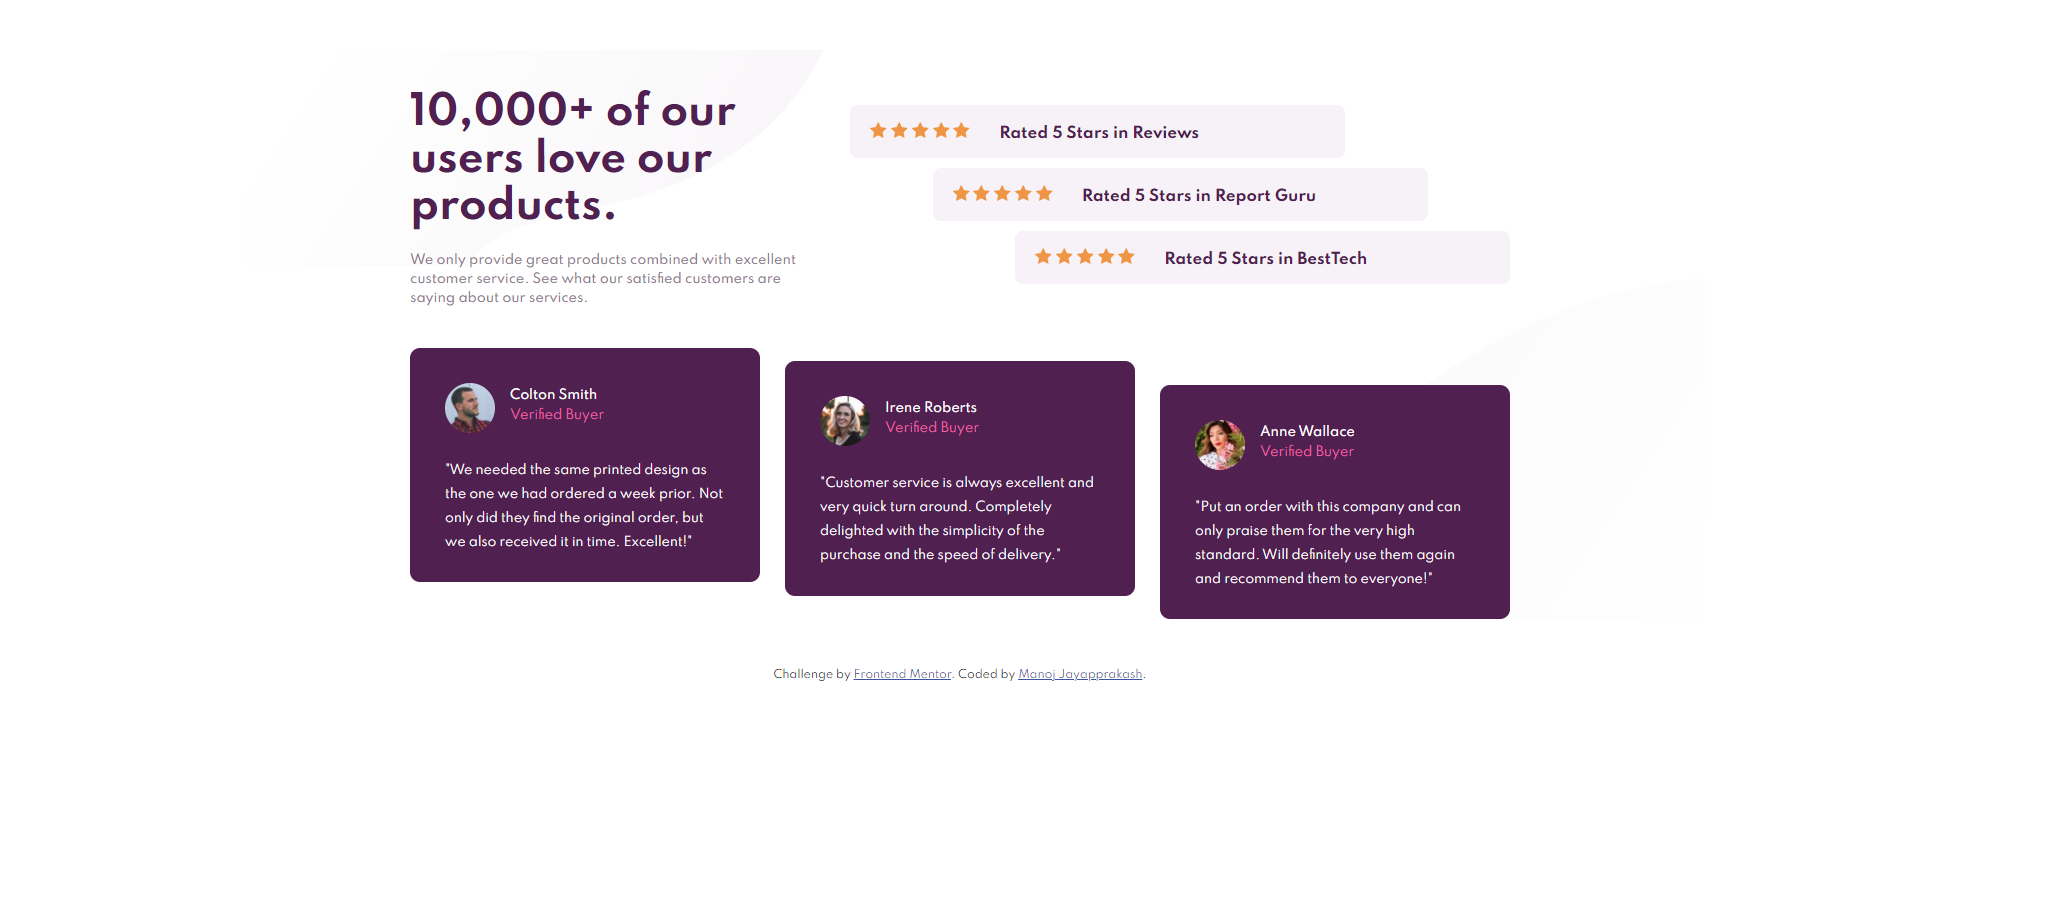
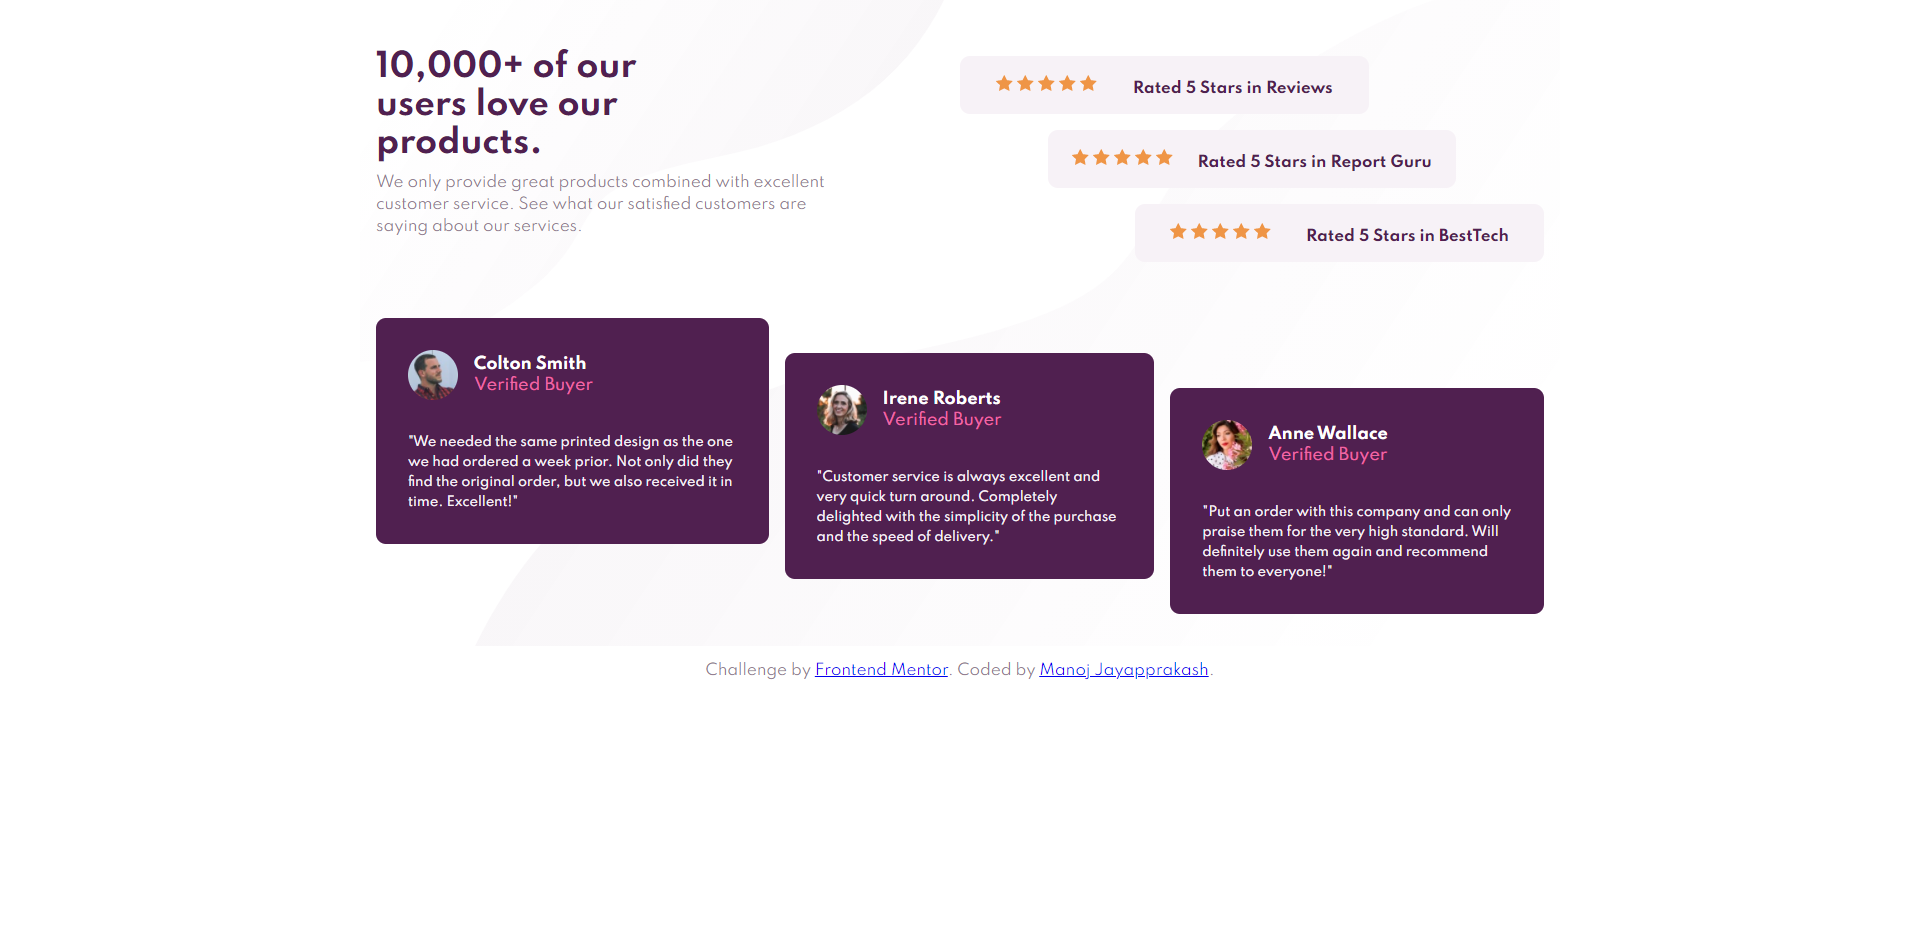
Added background image

diff --git a/index.html b/index.html
@@ -21,98 +21,99 @@
     <title>Social proof section</title>
   </head>
   <body>
-    <section>
-      <div class="container">
-        <div class="content">
-          <h1 class="title">10,000+ of our users love our products.</h1>
-          <p class="description">
-            We only provide great products combined with excellent customer
-            service. See what our satisfied customers are saying about our
-            services.
+    <section class="container">
+      <div class="content">
+        <h1 class="title">10,000+ of our users love our products.</h1>
+        <p class="description">
+          We only provide great products combined with excellent customer
+          service. See what our satisfied customers are saying about our
+          services.
+        </p>
+      </div>
+      <div class="ratings">
+        <div class="star-ratings" id="ratings-1">
+          <div class="stars">
+            <img src="./images/icon-star.svg" alt="" class="stars" />
+            <img src="./images/icon-star.svg" alt="" class="stars" />
+            <img src="./images/icon-star.svg" alt="" class="stars" />
+            <img src="./images/icon-star.svg" alt="" class="stars" />
+            <img src="./images/icon-star.svg" alt="" class="stars" />
+          </div>
+          <p class="star-ratings__comments">Rated 5 Stars in Reviews</p>
+        </div>
+        <div class="star-ratings" id="ratings-2">
+          <div class="stars">
+            <img src="./images/icon-star.svg" alt="" class="stars" />
+            <img src="./images/icon-star.svg" alt="" class="stars" />
+            <img src="./images/icon-star.svg" alt="" class="stars" />
+            <img src="./images/icon-star.svg" alt="" class="stars" />
+            <img src="./images/icon-star.svg" alt="" class="stars" />
+          </div>
+          <p class="star-ratings__comments">Rated 5 Stars in Report Guru</p>
+        </div>
+        <div class="star-ratings" id="ratings-3">
+          <div class="stars">
+            <img src="./images/icon-star.svg" alt="" class="stars" />
+            <img src="./images/icon-star.svg" alt="" class="stars" />
+            <img src="./images/icon-star.svg" alt="" class="stars" />
+            <img src="./images/icon-star.svg" alt="" class="stars" />
+            <img src="./images/icon-star.svg" alt="" class="stars" />
+          </div>
+          <p class="star-ratings__comments">Rated 5 Stars in BestTech</p>
+        </div>
+      </div>
+
+      <div class="reviews">
+        <blockquote class="customer-reviews" id="review-1">
+          <div class="citation">
+            <img
+              src="./images/image-colton.jpg"
+              alt="Colton"
+              class="user__image"
+            />
+            <div class="user__info">
+              <h2 class="name">Colton Smith</h2>
+              <p class="verified">Verified Buyer</p>
+            </div>
+          </div>
+          <p class="comments">
+            "We needed the same printed design as the one we had ordered a week
+            prior. Not only did they find the original order, but we also
+            received it in time. Excellent!"
           </p>
-        </div>
-        <div class="ratings">
-          <div class="star-ratings">
-            <img src="./images/icon-star.svg" alt="" class="stars" />
-            <img src="./images/icon-star.svg" alt="" class="stars" />
-            <img src="./images/icon-star.svg" alt="" class="stars" />
-            <img src="./images/icon-star.svg" alt="" class="stars" />
-            <img src="./images/icon-star.svg" alt="" class="stars" />
-            <p class="star-ratings__comments">Rated 5 Stars in Reviews</p>
-          </div>
-          <div class="star-ratings">
-            <img src="./images/icon-star.svg" alt="" class="stars" />
-            <img src="./images/icon-star.svg" alt="" class="stars" />
-            <img src="./images/icon-star.svg" alt="" class="stars" />
-            <img src="./images/icon-star.svg" alt="" class="stars" />
-            <img src="./images/icon-star.svg" alt="" class="stars" />
-            <p class="star-ratings__comments">Rated 5 Stars in Report Guru</p>
-          </div>
-          <div class="star-ratings">
-            <img src="./images/icon-star.svg" alt="" class="stars" />
-            <img src="./images/icon-star.svg" alt="" class="stars" />
-            <img src="./images/icon-star.svg" alt="" class="stars" />
-            <img src="./images/icon-star.svg" alt="" class="stars" />
-            <img src="./images/icon-star.svg" alt="" class="stars" />
-            <p class="star-ratings__comments">Rated 5 Stars in BestTech</p>
-          </div>
-        </div>
-        <div class="reviews">
-          <blockquote class="customer-reviews">
-            <div class="citation">
-              <img
-                src="./images/image-colton.jpg"
-                alt="Colton"
-                class="user__image"
-              />
-              <div class="user__info">
-                <h2 class="name">Colton Smith</h2>
-                <p class="verified">Verified Buyer</p>
-              </div>
+        </blockquote>
+        <blockquote class="customer-reviews" id="review-2">
+          <div class="citation">
+            <img
+              src="./images/image-irene.jpg"
+              alt="Irene"
+              class="user__image"
+            />
+            <div class="user__info">
+              <h2 class="name">Irene Roberts</h2>
+              <p class="verified">Verified Buyer</p>
             </div>
-            <p class="comments">
-              "We needed the same printed design as the one we had ordered a
-              week prior. Not only did they find the original order, but we also
-              received it in time. Excellent!"
-            </p>
-          </blockquote>
-          <blockquote class="customer-reviews">
-            <div class="citation">
-              <img
-                src="./images/image-irene.jpg"
-                alt="Irene"
-                class="user__image"
-              />
-              <div class="user__info">
-                <h2 class="name">Irene Roberts</h2>
-                <p class="verified">Verified Buyer</p>
-              </div>
+          </div>
+          <p class="comments">
+            "Customer service is always excellent and very quick turn around.
+            Completely delighted with the simplicity of the purchase and the
+            speed of delivery."
+          </p>
+        </blockquote>
+        <blockquote class="customer-reviews" id="review-3">
+          <div class="citation">
+            <img src="./images/image-anne.jpg" alt="Anne" class="user__image" />
+            <div class="user__info">
+              <h2 class="name">Anne Wallace</h2>
+              <p class="verified">Verified Buyer</p>
             </div>
-            <p class="comments">
-              "Customer service is always excellent and very quick turn around.
-              Completely delighted with the simplicity of the purchase and the
-              speed of delivery."
-            </p>
-          </blockquote>
-          <blockquote class="customer-reviews">
-            <div class="citation">
-              <img
-                src="./images/image-anne.jpg"
-                alt="Anne"
-                class="user__image"
-              />
-              <div class="user__info">
-                <h2 class="name">Anne Wallace</h2>
-                <p class="verified">Verified Buyer</p>
-              </div>
-            </div>
-            <p class="comments">
-              "Put an order with this company and can only praise them for the
-              very high standard. Will definitely use them again and recommend
-              them to everyone!"
-            </p>
-          </blockquote>
-        </div>
+          </div>
+          <p class="comments">
+            "Put an order with this company and can only praise them for the
+            very high standard. Will definitely use them again and recommend
+            them to everyone!"
+          </p>
+        </blockquote>
       </div>
     </section>
 

diff --git a/style.css b/style.css
@@ -9,8 +9,14 @@ body {
   color: hsl(303, 10%, 53%);
 }
 
-section {
+.container {
   padding: 1rem;
+  max-width: 1200px;
+  margin: 0 auto;
+  background-image: url(./images/bg-pattern-top-mobile.svg),
+    url(./images/bg-pattern-bottom-mobile.svg);
+  background-repeat: no-repeat, no-repeat;
+  background-position: top left, bottom right;
 }
 
 .content {
@@ -87,4 +93,76 @@ section {
   font-weight: 500;
   font-size: 0.8rem;
   color: hsl(300, 24%, 96%);
+}
+
+.attribution {
+  text-align: center;
+  margin: 1rem 0;
+}
+
+@media (min-width: 600px) {
+  .container {
+    display: grid;
+    grid-template-columns: 1fr 1fr;
+    background-image: url(./images/bg-pattern-top-desktop.svg),
+      url(./images/bg-pattern-bottom-desktop.svg);
+  }
+
+  .content {
+    text-align: left;
+    margin: 2rem 0;
+  }
+
+  .title {
+    margin: 0;
+    font-size: 2rem;
+    width: 60%;
+  }
+
+  .description {
+    margin-top: 10px;
+    width: 80%;
+  }
+
+  .ratings {
+    display: flex;
+    flex-direction: column;
+  }
+
+  .star-ratings {
+    display: flex;
+    width: 70%;
+    justify-content: space-evenly;
+    text-align: left;
+    align-items: center;
+    margin: 0.5rem 0;
+  }
+
+  #ratings-1 {
+    align-self: flex-start;
+  }
+  #ratings-2 {
+    align-self: center;
+  }
+  #ratings-3 {
+    align-self: flex-end;
+  }
+
+  .reviews {
+    grid-area: 2 / 1 / 3 / 3;
+    display: flex;
+    height: 35vh;
+  }
+
+  #review-1 {
+    align-self: flex-start;
+  }
+
+  #review-2 {
+    align-self: center;
+    margin: 0 1rem;
+  }
+  #review-3 {
+    align-self: flex-end;
+  }
 }
